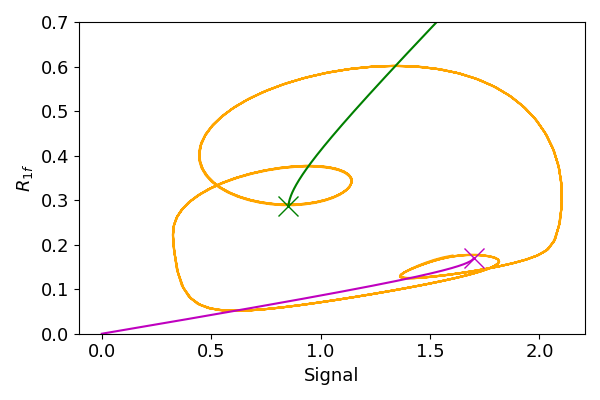
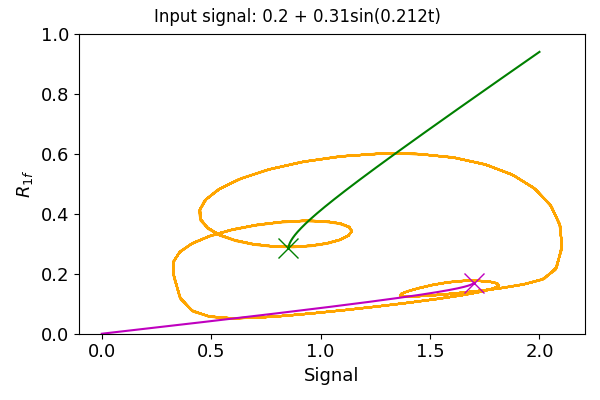
fixing plots

diff --git a/ODEsolver.py b/ODEsolver.py
@@ -183,7 +183,6 @@ def getSteadyState2(s,Q):
                 R_upper.append(R_asympt)
                 S_upper.append(s[i])
             R_tweak.append(R_asympt-Q[i])
-    print(len(R_tweak))
     return [S_lower,R_lower,S_upper,R_upper,R_tweak]
     #signal = S_init + amp * np.sin(freq * t)
     #ax[0].plot(S_init, R[-1], '.', color='black')
@@ -242,7 +241,7 @@ def plots(axis,axisType,xval,yval,startVal,xlabel,crits):
 
 
 # ------------------- ACTUAL CODE ---------------------
-t = np.linspace(0, 700,1000)
+t = np.linspace(0, 1200,1000)
 
 
 # fig,ax   = plt.subplots(1,2, sharex = False, sharey=True, figsize=(12,4)); pd1 = ax[0]; pd2 = ax[1]
@@ -253,7 +252,7 @@ fig4,p2   = plt.subplots();
 plot = [pd1,pd2,p1,p2]
 figs = [fig1,fig2,fig3,fig4]
 for f,p in zip(figs,plot):
-    p.set_ylim(0,0.7)
+    p.set_ylim(0,1)
     # f.tight_layout()
     f.set_figheight(4)
     f.set_figwidth(6)
@@ -282,11 +281,18 @@ reqCon  = 1.2 # the freq of the signal we know works
 freq    = 7.4   # divide the R_P with some number, which will change frequencies, 8 works when there is no oscillatory signal in the activator inhibitor
 freq    = 7.83  # divide the R_P with some number, which will change frequencies, 8 works when there is no oscillatory signal in the activator inhibitor
 a = 0.22; 
-a = 0.39; 
-b = 0.38; 
 
 a = 0.31; 
-b = 0.212; 
+b = 0.212
+
+
+# a = 0.39; 
+# a = 0.45; 
+# a = 0.70; 
+# b = 0.16; 
+# b = 0.30; 
+# b = 0.40; 
+# b = 0.25; 
 
 S = 0.2; 
 r = 0.3
@@ -325,7 +331,7 @@ upperRange = [0.29,0.373]
 lowerRange = [0.127,0.168]
 
 
-start = 500
+start = 300
 
 
 plots(pd1,"top",R_P,R,  start,"Signal",crits)
@@ -345,12 +351,19 @@ p1.plot(S_upper,R_upper, color = "g")
 # fig.tight_layout()
 # fig2.tight_layout()
 #fig.legend(loc='lower right')
-
+fignames = ["sine R-S chaos","sine R-T chaos","R-S chaotic","R-T chaotic"]
+fignames = [f"a{a}b{b}- RS",f"a{a}b{b}- RT","delete","delete"]
 fignames = ["with sine R-S","with sine R-T","without sine R-S","without sine R-T"]
-fignames = ["with sine R-S","with sine R-T","without sine R-S","without sine R-T"]
+figtitles = [f"Input signal: {S} + {a}sin({b}t) ","sine R-T chaos","R-S chaotic","R-T chaotic"]
 c=0
+title = f"Input signal: {S} + {a}sin({b}t) "
+savename = fr"{S} + {a}sin({b}t) "
 for f in figs:
-    f.tight_layout()
-    f.savefig(f"1f2b " + fignames[c])
+    #f.tight_layout()
+    f.tight_layout(rect=[0, 0, 1, 0.97])
+    # f.suptitle(figtitles[c])
+    f.suptitle(title + "\n")
+    f.savefig(f"1f2b " + fignames[c] + ".png")
     c+=1
+plt.gcf().subplots_adjust(top=0.15)
 # plt.show()
